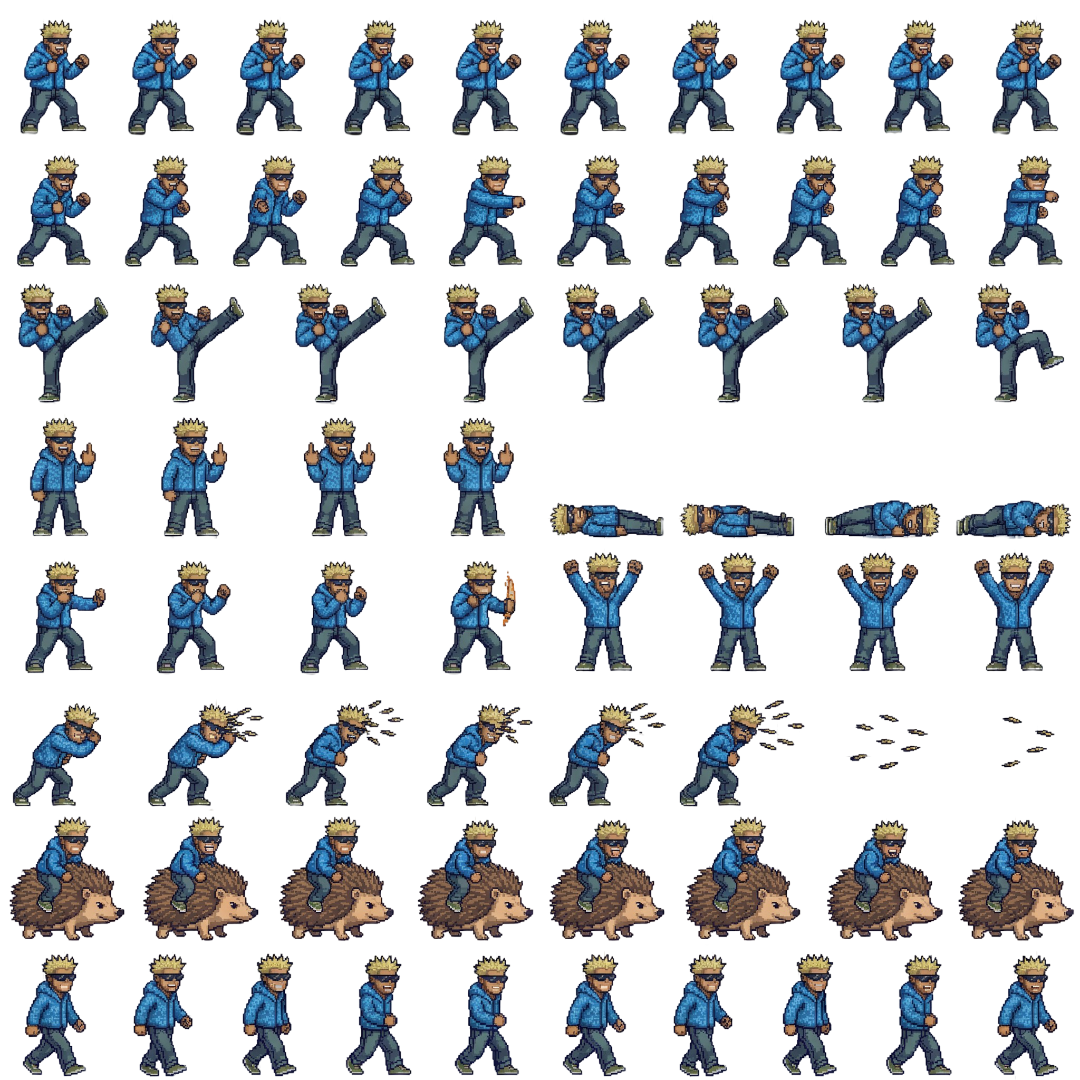
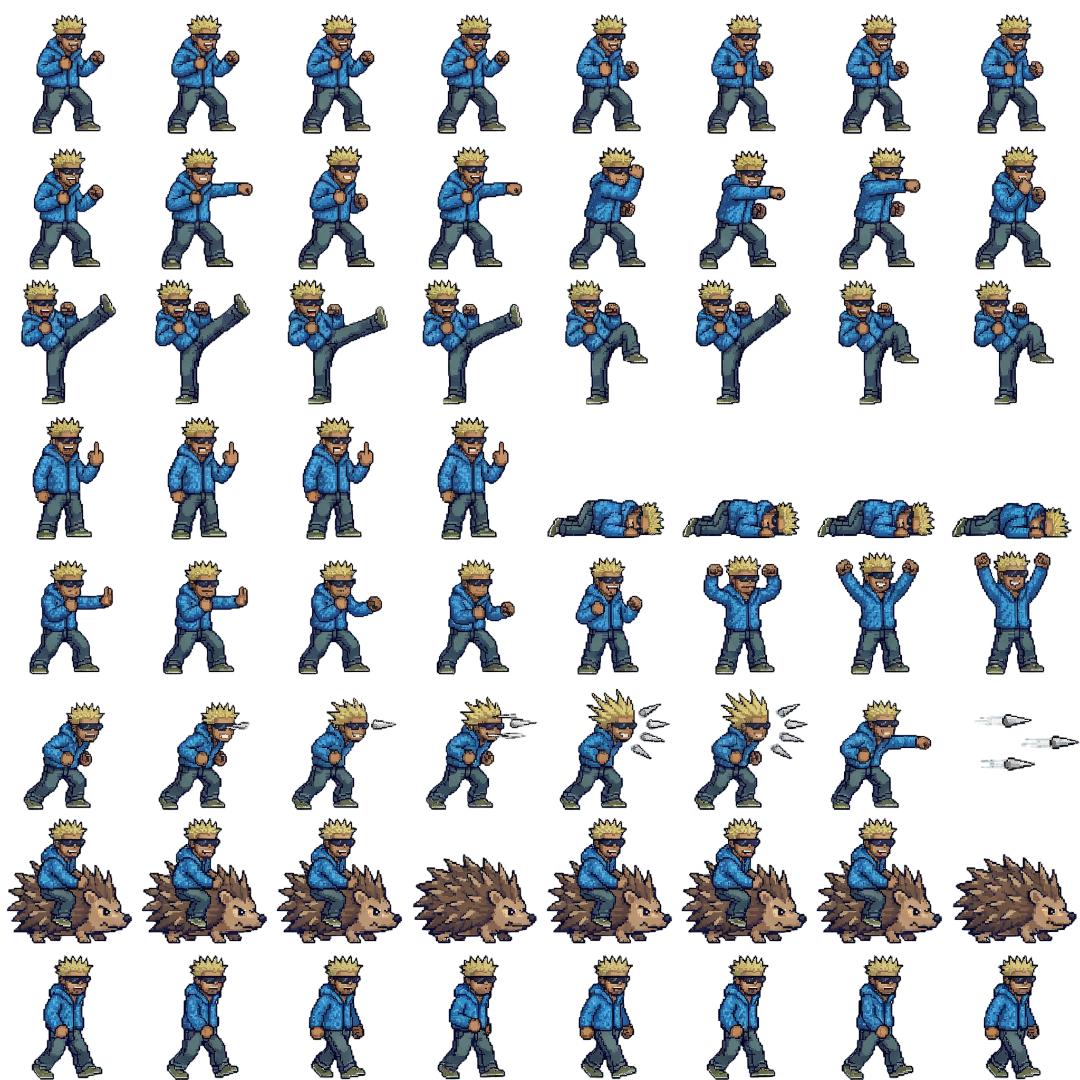
Update Francis throw animation (frames 0-2 -> 7) and Phaser logic

diff --git a/js/PhaserCombat.js b/js/PhaserCombat.js
@@ -1070,6 +1070,53 @@ class CombatScene extends Phaser.Scene {
                 return;
             }
 
+            // FRANCIS THROW - frames 0-2 leading to frame 7 (frame 7 IS SHOWN on character)
+            if (specialType === 'francis_throw') {
+                let francisHandled = false;
+                const francisTimer = this.time.addEvent({
+                    delay: 16,
+                    repeat: 60,
+                    callback: () => {
+                        if (!s.active || francisHandled) return;
+                        const currentAnim = s.anims.currentAnim;
+                        if (!currentAnim || currentAnim.key !== specialAnimKey) return;
+
+                        const fi = s.anims.currentFrame ? (s.anims.currentFrame.index - 1) : 0;
+
+                        if (fi === 2) {
+                            francisHandled = true;
+                            francisTimer.remove();
+
+                            // Show Frame 7 and throw
+                            s.anims.pause();
+                            const frames = s.anims.currentAnim.frames;
+                            if (frames[7]) s.anims.setCurrentFrame(frames[7]);
+
+                            if (!s.getData('projectileSpawned')) {
+                                this.spawnSpecialProjectile(s, pre);
+                                s.setData('projectileSpawned', true);
+                            }
+
+                            this.time.delayedCall(300, () => {
+                                if (s.active) {
+                                    s.anims.resume();
+                                    s.setData('isAttacking', false).play(`${pre}_idle`);
+                                }
+                            });
+                        }
+                    }
+                });
+                s.once('animationcomplete', () => {
+                    francisTimer.remove();
+                    if (!s.getData('projectileSpawned')) {
+                        this.spawnSpecialProjectile(s, pre);
+                        s.setData('projectileSpawned', true);
+                    }
+                    if (s.active) s.setData('isAttacking', false).play(`${pre}_idle`);
+                });
+                return;
+            }
+
             // GENERIC SPECIAL: Spawn projectile at triggerFrame
             let triggerFrame = 3;
             if (data && data.spriteSheetData.states.special && data.spriteSheetData.states.special.triggerFrame !== undefined) {

diff --git a/js/classes/Fighter.js b/js/classes/Fighter.js
@@ -121,6 +121,44 @@ class Fighter extends Sprite {
                 this.attackBox.width = 0
             }
 
+            // FRANCIS THROW SPECIAL (Row 5 - Jump from 2 to 7)
+            else if (this.currentType === 'francis_throw' && this.isAttacking) {
+                if (this.framesCurrent <= 2) {
+                    this.framesHold = 10
+                }
+                else if (this.framesCurrent >= 3 && this.framesCurrent < 7) {
+                    this.framesCurrent = 7
+                }
+                else if (this.framesCurrent === 7) {
+                    if (!this.specialSpawned) {
+                        const projectileDirection = this.flipHorizontal ? -1 : 1
+                        if (typeof Projectile !== 'undefined') {
+                            const specialProjectile = new Projectile({
+                                position: {
+                                    x: this.position.x + (this.flipHorizontal ? -50 : this.width + 50),
+                                    y: this.position.y + 40
+                                },
+                                velocity: {
+                                    x: projectileDirection * 15,
+                                    y: 0
+                                },
+                                image: this.sprites.special.image,
+                                framesMax: 1,
+                                scale: this.scale,
+                                owner: this,
+                                framesRow: 5,
+                                startFrame: 7,
+                                radius: 40
+                            })
+                            if (typeof projectiles !== 'undefined') projectiles.push(specialProjectile)
+                        }
+                        this.specialSpawned = true
+                    }
+                    this.framesHold = 20
+                }
+                this.attackBox.width = 0
+            }
+
             // TACO SUPER BLINK Logic
             else if (this.isAttacking && this.currentType === 'taco_super') {
                 this.showTacoBlink = [1, 3, 5].includes(this.framesCurrent);

diff --git a/js/data/roster.js b/js/data/roster.js
@@ -4602,7 +4602,7 @@
                 death: { row: 3, frames: 4, startFrame: 4 },
                 block: { row: 4, frames: 4, startFrame: 0 },
                 victory: { row: 4, frames: 4, startFrame: 4 },
-                special: { row: 5, frames: 5, startFrame: 0, type: 'special_projectile' },
+                special: { row: 5, frames: 8, startFrame: 0, type: 'francis_throw' },
                 attack1_super: { row: 6, frames: 8, startFrame: 0, type: 'car_super' },
                 run: { row: 7, frames: 8, startFrame: 0 },
                 jump: { row: 0, frames: 1, startFrame: 0 },

diff --git a/count_users.js b/count_users.js
@@ -1,0 +1,16 @@
+require('dotenv').config({ path: './server/.env' });
+const mongoose = require('mongoose');
+const User = require('./server/models/User');
+
+async function countUsers() {
+    try {
+        await mongoose.connect(process.env.MONGODB_URI);
+        const count = await User.countDocuments();
+        console.log(`TOTAL_USERS: ${count}`);
+        await mongoose.connection.close();
+    } catch (err) {
+        console.error('Error counting users:', err);
+    }
+}
+
+countUsers();
